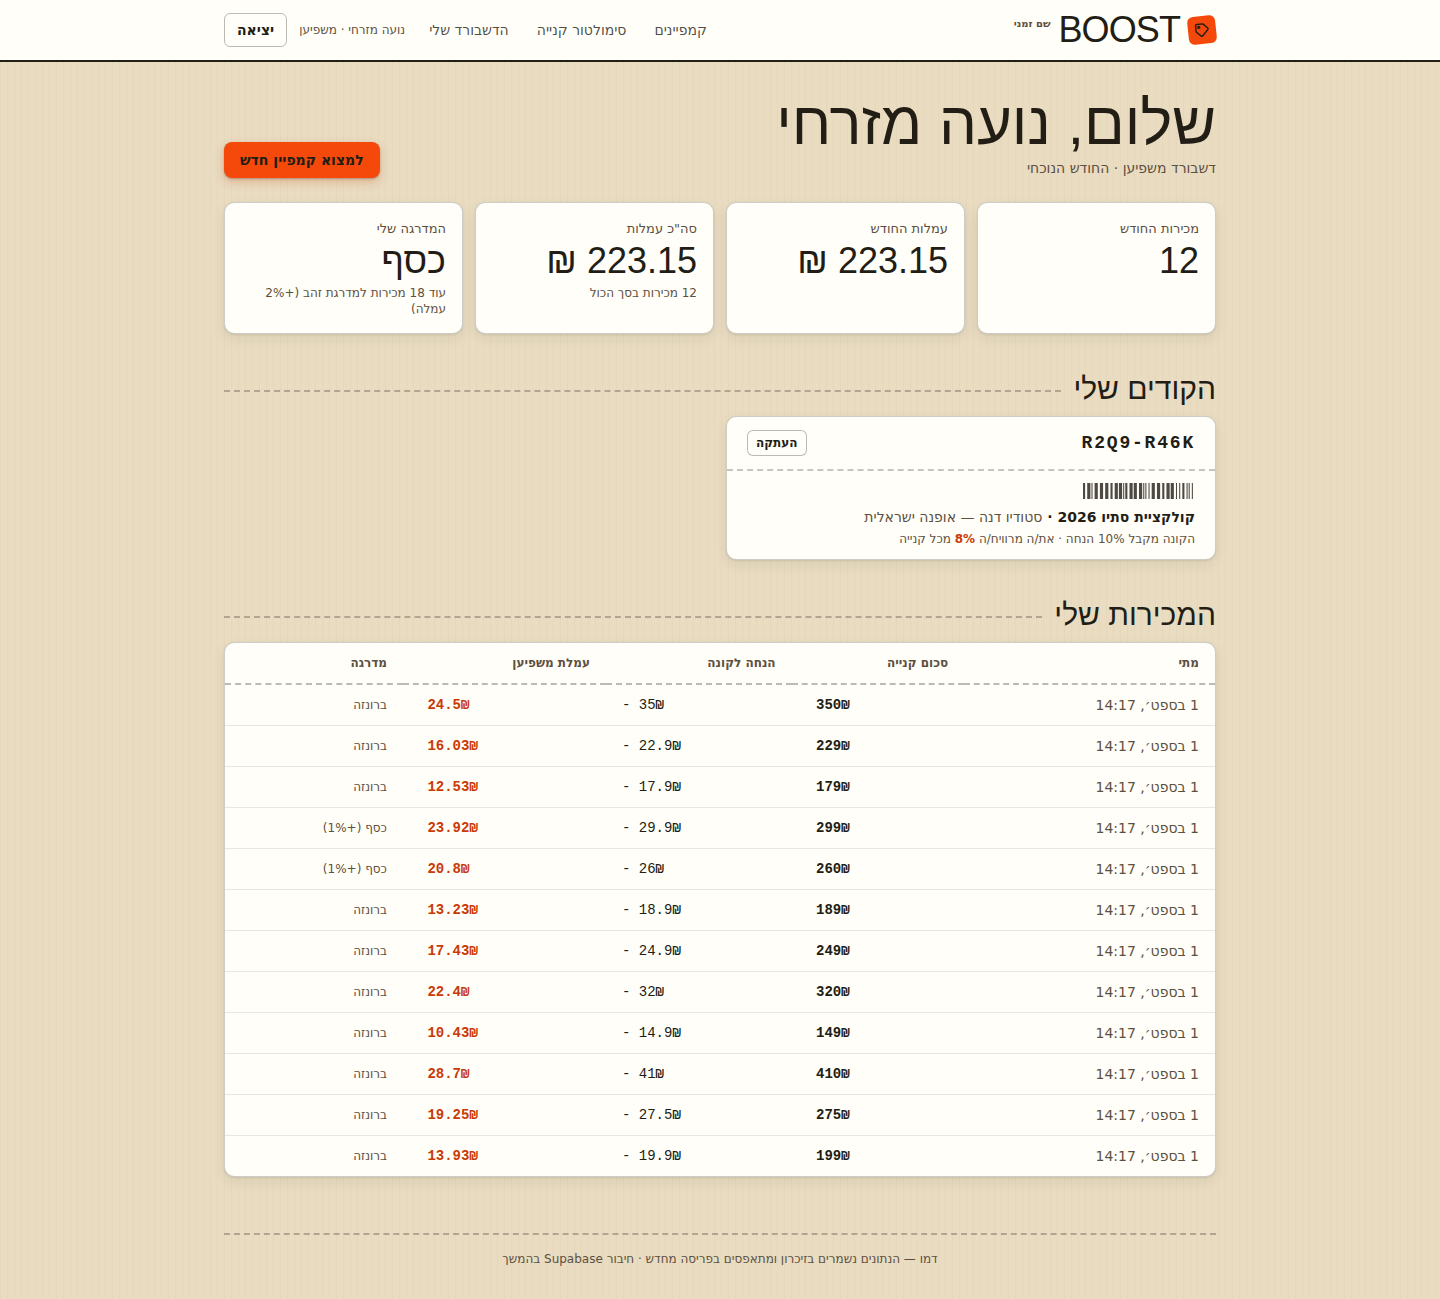
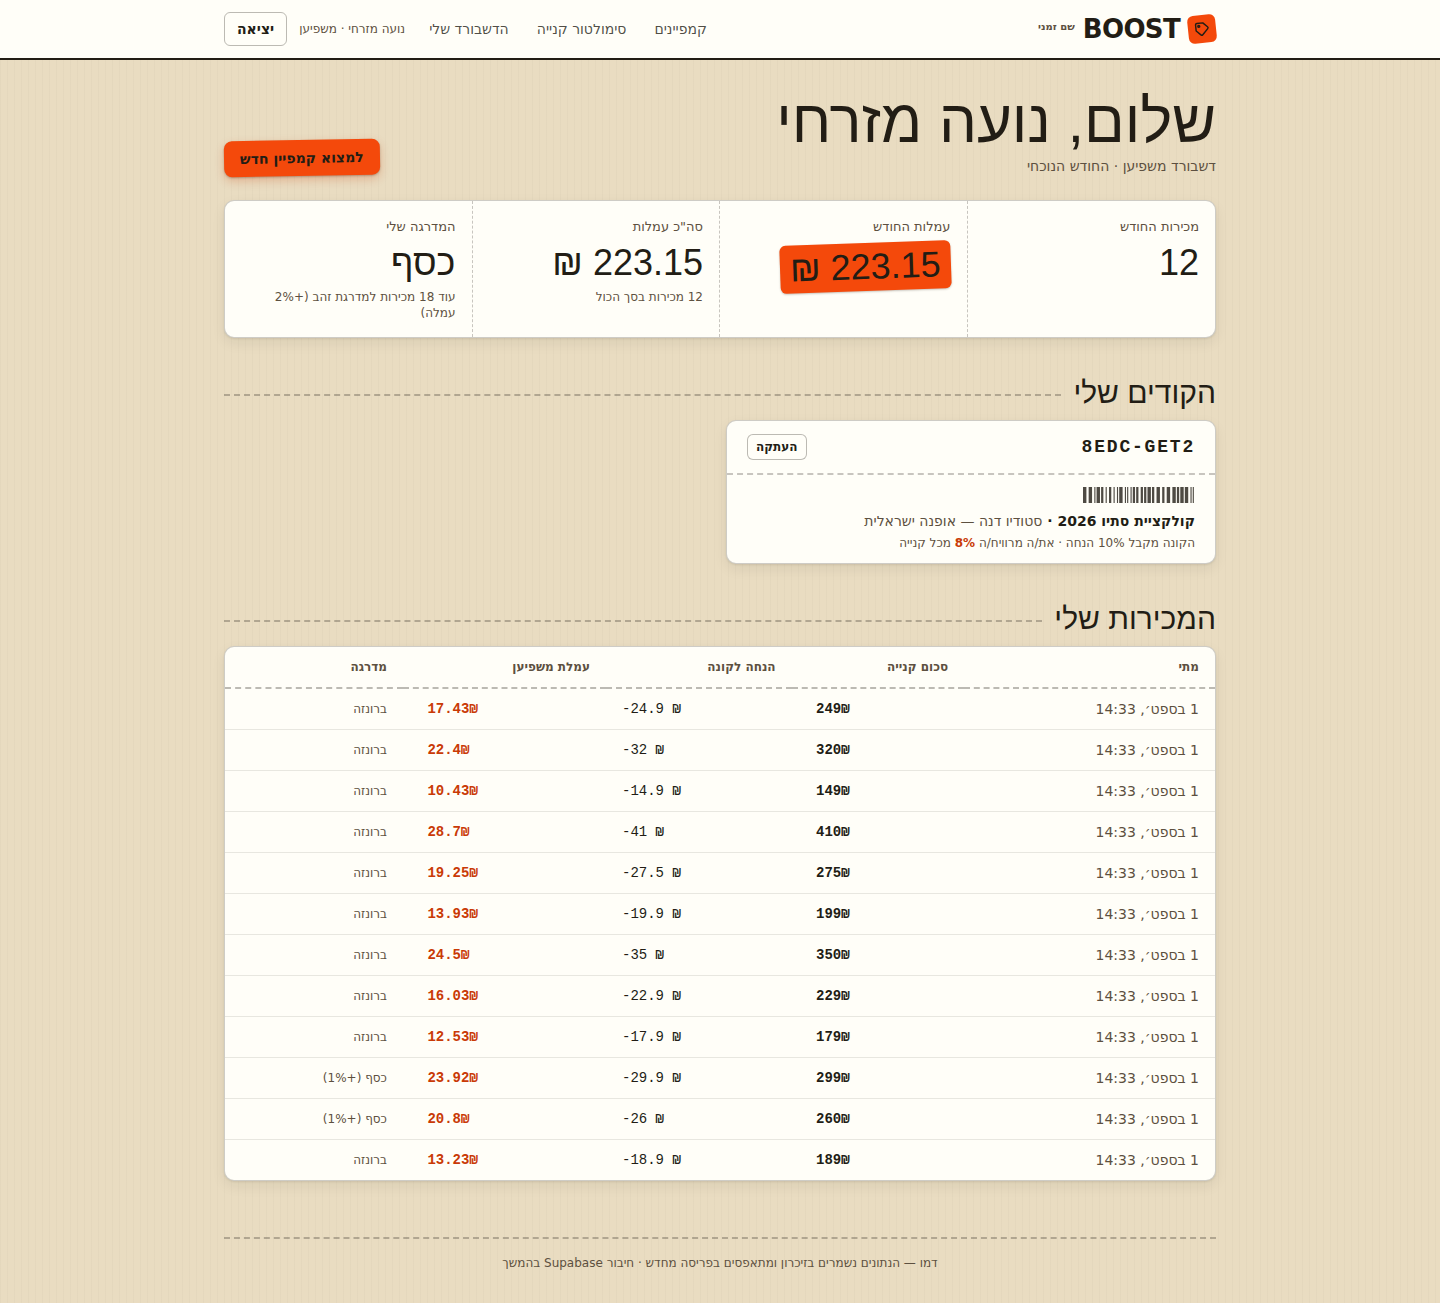
Apply finish-review fixes: KPI packing-slip strip, receipt result, cascade layer
- StatStrip replaces the equal-card KPI grid: one perforated strip with the
  key figure as a rotated price-gun sticker (both dashboards)
- Simulator success now prints as a split-label receipt (tape, barcode,
  perforation, business-cost bottom line, tier footnote)
- World classes moved into @layer components so Tailwind utilities win;
  Card gains a pad prop, !p-* workarounds removed; tier stickers render
  as true circles
- Wordmark set in Rubik ExtraBold; drawn CheckIcon replaces text glyphs;
  formatILS unified in client forms; placeholder contrast raised;
  primary CTA carries its sticker rotation at rest

Claude-Session: https://claude.ai/code/session_01BY1AFS9aAVnETzgTkHdBLP

diff --git a/web/app/simulate/SimulatorForm.tsx b/web/app/simulate/SimulatorForm.tsx
@@ -2,13 +2,18 @@
 
 import { useActionState } from "react";
 import { simulatePurchase, type FormState } from "../actions";
+import { Barcode } from "@/components/Barcode";
+import { CheckIcon } from "@/components/icons";
 import { btnPrimary, inputCls } from "@/components/ui";
+import { formatILS } from "@/lib/format";
 
-const nis = (n: number) => `₪${n.toLocaleString("he-IL", { maximumFractionDigits: 2 })}`;
+const round2 = (n: number) => Math.round(n * 100) / 100;
 const tierLabel = (t: string) => (t === "GOLD" ? "זהב" : t === "SILVER" ? "כסף" : "ברונזה");
 
 export function SimulatorForm({ demoCode }: { demoCode?: string }) {
   const [state, formAction, pending] = useActionState<FormState, FormData>(simulatePurchase, {});
+  const r = state.result;
+  const totalCost = r ? round2(r.buyerDiscount + r.influencerCommission + r.platformFee) : 0;
 
   return (
     <div className="space-y-4">
@@ -43,31 +48,48 @@ export function SimulatorForm({ demoCode }: { demoCode?: string }) {
         </div>
       ) : null}
 
-      {state.ok && state.result ? (
-        <div className="rounded-lg border border-ok/40 bg-okbg p-4 text-sm">
-          <div className="font-bold text-ok">המכירה נרשמה ✓</div>
-          <div className="tabular mt-3 grid grid-cols-2 gap-3 font-mono text-xs sm:grid-cols-4">
-            <div>
-              <div className="font-sans text-mut">סכום קנייה</div>
-              <div className="mt-0.5 text-base font-bold">{nis(state.result.orderAmount)}</div>
+      {state.ok && r ? (
+        /* המכירה מודפסת כתווית פיצול — בדיוק כמו שההבטחה בעמוד הבית נראית */
+        <div className="label-card relative p-0" role="status">
+          <div className="tape absolute -top-3 right-8 h-6 w-20 -rotate-2" aria-hidden="true" />
+          <div className="flex items-center justify-between gap-3 border-b-2 border-dashed border-ink/25 px-5 py-3">
+            <div className="flex items-center gap-2 font-bold text-ok">
+              <CheckIcon className="h-5 w-5" /> המכירה נרשמה
             </div>
-            <div>
-              <div className="font-sans text-mut">הנחה לקונה</div>
-              <div className="mt-0.5 text-base font-bold">{nis(-state.result.buyerDiscount)}</div>
-            </div>
-            <div>
-              <div className="font-sans text-mut">עמלת המשפיען</div>
-              <div className="mt-0.5 text-base font-bold text-deal-deep">{nis(state.result.influencerCommission)}</div>
-            </div>
-            <div>
-              <div className="font-sans text-mut">דמי פלטפורמה</div>
-              <div className="mt-0.5 text-base font-bold">{nis(state.result.platformFee)}</div>
+            <div className="w-24 text-ink">
+              <Barcode seed={r.code} height={20} />
+              <div className="mt-0.5 text-center font-mono text-[11px] font-semibold tracking-widest" dir="ltr">
+                {r.code}
+              </div>
             </div>
           </div>
-          <p className="mt-3 text-xs text-mut">
-            מדרגת המשפיען: {tierLabel(state.result.tier)}
-            {state.result.tierBonusPct > 0 ? ` (+${state.result.tierBonusPct}% בונוס על חשבון הפלטפורמה)` : ""} ·
-            המכירה מופיעה עכשיו בדשבורד של העסק ושל המשפיען.
+          <dl className="tabular px-5 py-4 text-sm">
+            <div className="flex items-baseline justify-between py-1.5">
+              <dt className="text-mut">סכום הקנייה</dt>
+              <dd className="font-mono font-semibold" dir="ltr">{formatILS(r.orderAmount)}</dd>
+            </div>
+            <div className="flex items-baseline justify-between py-1.5">
+              <dt>הנחה לקונה</dt>
+              <dd className="font-mono font-semibold" dir="ltr">{formatILS(-r.buyerDiscount)}</dd>
+            </div>
+            <div className="flex items-baseline justify-between py-1.5">
+              <dt>עמלת המשפיען</dt>
+              <dd className="font-mono font-bold text-deal-deep" dir="ltr">{formatILS(r.influencerCommission)}</dd>
+            </div>
+            <div className="flex items-baseline justify-between py-1.5">
+              <dt>דמי פלטפורמה</dt>
+              <dd className="font-mono font-semibold" dir="ltr">{formatILS(r.platformFee)}</dd>
+            </div>
+          </dl>
+          <div className="perforation mx-5" aria-hidden="true" />
+          <div className="flex flex-wrap items-baseline justify-between gap-2 px-5 py-4">
+            <span className="font-bold">העסק שילם {formatILS(totalCost)}</span>
+            <span className="text-sm text-mut">רק כי המכירה קרתה</span>
+          </div>
+          <p className="border-t border-dashed border-ink/25 px-5 py-3 text-xs text-mut">
+            מדרגת המשפיען: {tierLabel(r.tier)}
+            {r.tierBonusPct > 0 ? ` (+${r.tierBonusPct}% בונוס על חשבון הפלטפורמה)` : ""} · המכירה מופיעה
+            עכשיו בדשבורד של העסק ושל המשפיען.
           </p>
         </div>
       ) : null}

diff --git a/web/app/dashboard/page.tsx b/web/app/dashboard/page.tsx
@@ -1,6 +1,6 @@
 import Link from "next/link";
 import { redirect } from "next/navigation";
-import { Badge, Card, SectionTitle, Stat, btnGhost, btnPrimary } from "@/components/ui";
+import { Badge, Card, SectionTitle, StatStrip, btnGhost, btnPrimary } from "@/components/ui";
 import { Barcode } from "@/components/Barcode";
 import { CopyButton } from "@/components/CopyButton";
 import { getCurrentUser } from "@/lib/auth";
@@ -49,14 +49,19 @@ async function BusinessDashboard({ user, store }: { user: User; store: DataStore
         </Link>
       </div>
 
-      <div className="mt-6 grid gap-3 sm:grid-cols-2 lg:grid-cols-4">
-        <Stat label="מכירות דרך הפלטפורמה" value={stats.monthCount} sub={`מחזור: ${formatILS(stats.monthRevenue)}`} />
-        <Stat label="הנחות שניתנו לקונים" value={formatILS(stats.monthBuyerDiscounts)} />
-        <Stat label="עמלות למשפיענים" value={formatILS(stats.monthCommissions)} />
-        <Stat
-          label="עלות שיווק כוללת"
-          value={formatILS(stats.monthTotalCost)}
-          sub={`${stats.costPctOfRevenue}% מהמחזור — קבוע וידוע מראש`}
+      <div className="mt-6">
+        <StatStrip
+          items={[
+            { label: "מכירות דרך הפלטפורמה", value: stats.monthCount, sub: `מחזור: ${formatILS(stats.monthRevenue)}` },
+            { label: "הנחות שניתנו לקונים", value: formatILS(stats.monthBuyerDiscounts) },
+            { label: "עמלות למשפיענים", value: formatILS(stats.monthCommissions) },
+            {
+              label: "עלות שיווק כוללת",
+              value: formatILS(stats.monthTotalCost),
+              sub: `${stats.costPctOfRevenue}% מהמחזור — קבוע וידוע מראש`,
+              accent: true,
+            },
+          ]}
         />
       </div>
 
@@ -155,18 +160,20 @@ async function InfluencerDashboard({ user, store }: { user: User; store: DataSto
         </Link>
       </div>
 
-      <div className="mt-6 grid gap-3 sm:grid-cols-2 lg:grid-cols-4">
-        <Stat label="מכירות החודש" value={stats.monthCount} />
-        <Stat label="עמלות החודש" value={formatILS(stats.monthEarnings)} />
-        <Stat label='סה"כ עמלות' value={formatILS(stats.totalEarnings)} sub={`${stats.totalCount} מכירות בסך הכול`} />
-        <Stat
-          label="המדרגה שלי"
-          value={tier.label}
-          sub={
-            next
-              ? `עוד ${next.minMonthlySales - stats.monthCount} מכירות למדרגת ${next.label} (+${next.bonusPct}% עמלה)`
-              : "המדרגה הגבוהה ביותר — כל הכבוד!"
-          }
+      <div className="mt-6">
+        <StatStrip
+          items={[
+            { label: "מכירות החודש", value: stats.monthCount },
+            { label: "עמלות החודש", value: formatILS(stats.monthEarnings), accent: true },
+            { label: 'סה"כ עמלות', value: formatILS(stats.totalEarnings), sub: `${stats.totalCount} מכירות בסך הכול` },
+            {
+              label: "המדרגה שלי",
+              value: tier.label,
+              sub: next
+                ? `עוד ${next.minMonthlySales - stats.monthCount} מכירות למדרגת ${next.label} (+${next.bonusPct}% עמלה)`
+                : "המדרגה הגבוהה ביותר — כל הכבוד!",
+            },
+          ]}
         />
       </div>
 
@@ -180,7 +187,7 @@ async function InfluencerDashboard({ user, store }: { user: User; store: DataSto
         {codes.map((code) => {
           const campaign = campaignById.get(code.campaignId);
           return (
-            <Card key={code.id} className="!p-0">
+            <Card key={code.id} pad={false}>
               <div className="flex items-center justify-between gap-3 border-b-2 border-dashed border-ink/25 px-5 py-3">
                 <code className="font-mono text-lg font-bold tracking-widest" dir="ltr">
                   {code.code}
@@ -236,7 +243,7 @@ function RedemptionsTable({
     return <p className="text-sm text-mut">אין עדיין מכירות. אפשר לייצר אחת בסימולטור.</p>;
   }
   return (
-    <Card className="overflow-x-auto !p-0">
+    <Card pad={false} className="overflow-x-auto">
       <table className="tabular w-full min-w-[560px] text-sm">
         <thead>
           <tr className="border-b-2 border-dashed border-ink/30 text-right text-xs text-mut">

diff --git a/web/components/ui.tsx b/web/components/ui.tsx
@@ -1,17 +1,54 @@
 import type { ReactNode } from "react";
 
-export function Card({ children, className = "" }: { children: ReactNode; className?: string }) {
-  return <div className={`label-card p-5 ${className}`}>{children}</div>;
+export function Card({
+  children,
+  className = "",
+  pad = true,
+}: {
+  children: ReactNode;
+  className?: string;
+  pad?: boolean;
+}) {
+  return <div className={`label-card ${pad ? "p-5" : ""} ${className}`}>{children}</div>;
 }
 
-/** שורת נתון בסגנון תווית מנשר אריזה */
-export function Stat({ label, value, sub }: { label: string; value: ReactNode; sub?: string }) {
+export interface StatItem {
+  label: string;
+  value: ReactNode;
+  sub?: string;
+  /** הנתון המרכזי — מקבל מדבקת מחיר כתומה */
+  accent?: boolean;
+}
+
+/**
+ * רצועת נתונים כמנשר אריזה אחד: תווית רחבה עם קווי ניקוב בין הערכים,
+ * והנתון המרכזי מודגש כמדבקת מחיר — במקום גריד כרטיסים שווים.
+ */
+export function StatStrip({ items }: { items: StatItem[] }) {
+  const cellBorders = [
+    "",
+    "border-s border-dashed border-ink/25",
+    "border-t lg:border-t-0 lg:border-s border-dashed border-ink/25",
+    "border-s border-t lg:border-t-0 border-dashed border-ink/25",
+  ];
   return (
-    <Card className="!p-4">
-      <div className="text-[13px] font-medium text-mut">{label}</div>
-      <div className="tabular mt-1 font-display text-4xl leading-none">{value}</div>
-      {sub ? <div className="mt-1.5 text-xs text-mut">{sub}</div> : null}
-    </Card>
+    <div className="label-card grid grid-cols-2 overflow-hidden p-0 lg:grid-cols-4">
+      {items.map((it, i) => (
+        <div key={it.label} className={`p-4 ${cellBorders[i] ?? cellBorders[1]}`}>
+          <div className="text-[13px] font-medium text-mut">{it.label}</div>
+          <div className="tabular mt-1.5 font-display leading-none">
+            {it.accent ? (
+              <span className="inline-block -rotate-2 rounded-md bg-deal px-2.5 py-1 text-4xl text-ink shadow-[0_1px_2px_rgba(34,29,21,0.25)]">
+                {it.value}
+              </span>
+            ) : (
+              <span className="text-4xl">{it.value}</span>
+            )}
+          </div>
+          {it.sub ? <div className="mt-1.5 text-xs text-mut">{it.sub}</div> : null}
+        </div>
+      ))}
+    </div>
   );
 }
 
@@ -46,10 +83,10 @@ export function Badge({
 }
 
 export const btnPrimary =
-  "inline-flex items-center justify-center gap-2 rounded-lg bg-deal px-4 py-2 text-sm font-bold text-ink shadow-[0_1px_2px_rgba(34,29,21,0.25),0_4px_10px_rgba(201,58,6,0.25)] transition hover:-rotate-1 hover:bg-[#ff5a17] disabled:opacity-50 disabled:hover:rotate-0";
+  "inline-flex -rotate-1 items-center justify-center gap-2 rounded-lg bg-deal px-4 py-2 text-sm font-bold text-ink shadow-[0_1px_2px_rgba(34,29,21,0.25),0_4px_10px_rgba(201,58,6,0.25)] transition hover:rotate-0 hover:bg-[#ff5a17] disabled:opacity-50";
 export const btnGhost =
   "inline-flex items-center justify-center gap-2 rounded-lg border border-ink/30 bg-label px-4 py-2 text-sm font-semibold text-ink shadow-[0_1px_2px_rgba(34,29,21,0.08)] transition hover:bg-paper";
 export const btnStamp =
   "inline-flex items-center justify-center gap-2 rounded-lg bg-ink px-4 py-2 text-sm font-bold text-label transition hover:bg-ink/85";
 export const inputCls =
-  "w-full rounded-lg border border-ink/30 bg-label px-3 py-2 text-sm text-ink placeholder:text-mut/70 focus:border-deal focus:outline-none";
+  "w-full rounded-lg border border-ink/30 bg-label px-3 py-2 text-sm text-ink placeholder:text-mut focus:border-deal focus:outline-none";

diff --git a/web/components/CopyButton.tsx b/web/components/CopyButton.tsx
@@ -1,6 +1,7 @@
 "use client";
 
 import { useState } from "react";
+import { CheckIcon } from "./icons";
 
 export function CopyButton({ text }: { text: string }) {
   const [copied, setCopied] = useState(false);
@@ -16,9 +17,15 @@ export function CopyButton({ text }: { text: string }) {
           // clipboard unavailable (e.g. http) — ignore
         }
       }}
-      className="rounded-md border border-ink/30 bg-label px-2 py-1 text-xs font-semibold text-ink transition hover:bg-paper"
+      className="inline-flex items-center gap-1 rounded-md border border-ink/30 bg-label px-2 py-1 text-xs font-semibold text-ink transition hover:bg-paper"
     >
-      {copied ? "הועתק ✓" : "העתקה"}
+      {copied ? (
+        <>
+          <CheckIcon className="h-3 w-3 text-ok" /> הועתק
+        </>
+      ) : (
+        "העתקה"
+      )}
     </button>
   );
 }

diff --git a/web/app/layout.tsx b/web/app/layout.tsx
@@ -46,7 +46,7 @@ export default async function RootLayout({ children }: { children: React.ReactNo
               <span className="inline-flex -rotate-6 items-center justify-center rounded-md bg-deal p-1.5 text-ink">
                 <TagIcon className="h-4 w-4" strokeWidth={2.2} />
               </span>
-              <span className="font-display text-4xl leading-none tracking-tight">BOOST</span>
+              <span className="font-sans text-[26px] font-extrabold uppercase leading-none tracking-tight">Boost</span>
               <span className="mt-1 self-start text-[10px] font-semibold text-mut">שם זמני</span>
             </Link>
             <nav className="flex flex-wrap items-center gap-1">

diff --git a/web/app/campaigns/new/CampaignForm.tsx b/web/app/campaigns/new/CampaignForm.tsx
@@ -4,9 +4,9 @@ import { useActionState, useMemo, useState } from "react";
 import { createCampaign, type FormState } from "../../actions";
 import { btnPrimary, inputCls } from "@/components/ui";
 import { computeSplit } from "@/lib/domain/logic";
+import { formatILS as nis } from "@/lib/format";
 
 const EXAMPLE_ORDER = 300;
-const nis = (n: number) => `₪${n.toLocaleString("he-IL", { maximumFractionDigits: 2 })}`;
 
 export function CampaignForm() {
   const [state, formAction, pending] = useActionState<FormState, FormData>(createCampaign, {});

diff --git a/web/app/globals.css b/web/app/globals.css
@@ -64,6 +64,8 @@ body {
   border: 2px solid var(--color-kraft);
 }
 
+/* רכיבי העולם בשכבת components — כך שכלי utility של Tailwind גוברים עליהם */
+@layer components {
 /* תווית: הקונטיינר הבסיסי של העולם */
 .label-card {
   background: var(--color-label);
@@ -122,4 +124,5 @@ body {
 /* מספרים טבלאיים בכל נתון כספי */
 .tabular {
   font-variant-numeric: tabular-nums;
+}
 }

diff --git a/web/app/login/page.tsx b/web/app/login/page.tsx
@@ -38,7 +38,7 @@ export default async function LoginPage() {
         </div>
       </Card>
       <Card>
-        <h1 className="font-display text-4xl leading-none">הרשמה חדשה</h1>
+        <h2 className="font-display text-4xl leading-none">הרשמה חדשה</h2>
         <p className="mt-2 text-sm font-light text-mut">
           בדמו אין סיסמה — בגרסת הפרודקשן זה יוחלף ב-Supabase Auth.
         </p>

diff --git a/web/components/icons.tsx b/web/components/icons.tsx
@@ -86,6 +86,14 @@ export function ScissorsIcon(props: SVGProps<SVGSVGElement>) {
   );
 }
 
+export function CheckIcon(props: SVGProps<SVGSVGElement>) {
+  return (
+    <Base {...props}>
+      <path d="M4.5 12.5l5 5L19.5 6.5" />
+    </Base>
+  );
+}
+
 export function ArrowIcon(props: SVGProps<SVGSVGElement>) {
   /* חץ "המשך" בעברית — מצביע שמאלה */
   return (
